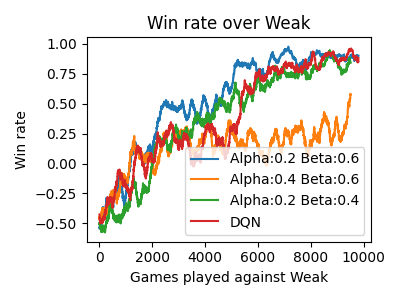
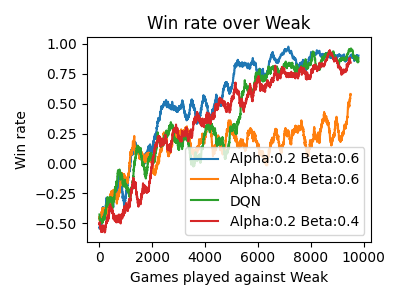
more plot updates

Changed region(s): [[0.24, 0.15, 0.9, 0.78], [0.57, 0.63, 0.9, 0.69], [0.57, 0.72, 0.9, 0.78]]

diff --git a/src/hockey-env/plots_for_report.py b/src/hockey-env/plots_for_report.py
@@ -105,7 +105,7 @@ plot_rewards([(Combined_n_4,"50 games"),(Combined_n_4_ten_games, "10 games")], e
 plot_rewards([(bigger_lr, "bigger_lr"),(bigger_nn, "bigger_nn"), (Combined_n_4, "Combined_n_4")], episodes = int(2000), name = "rewards_bigger_lr_nn")
 
 plot_winrate([(tournament_agent_path, "4 Steps"),(n_step_6_path, "6 Steps"), (classic_dqn, "DQN"),(n_step_1_path, "1 Step") ], opponent_name=  "Weak", games = 10000, opponent_idx = 1, name = "win_rate_n_steps")
-plot_winrate([(tournament_agent_path, "Alpha:0.2 Beta:0.6"),(prio_alpha_04,  "Alpha:0.4 Beta:0.6"),(prio_alpha_02_beta_04,  "Alpha:0.2 Beta:0.4"),  (classic_dqn, "DQN") ], games = 10000, opponent_name=  "Weak", opponent_idx = 1, name = "win_rate_alpha_beta")
+plot_winrate([(tournament_agent_path, "Alpha:0.2 Beta:0.6"),(prio_alpha_04,  "Alpha:0.4 Beta:0.6"), (classic_dqn, "DQN"),(prio_alpha_02_beta_04,  "Alpha:0.2 Beta:0.4") ], games = 10000, opponent_name=  "Weak", opponent_idx = 1, name = "win_rate_alpha_beta")
 plot_winrate([(tournament_agent_path, "PER + 4-Step"),(Combined_n_4, "Combined"), (classic_dqn, "DQN")], opponent_name=  "Weak", opponent_idx = 1, name = "win_rate_vs_weak", games = 12000)
 plot_winrate([(Combined_n_4,"50 games"),(Combined_n_4_ten_games, "10 games")], opponent_name=  "Weak", opponent_idx = 1, name = "win_rate_combined_vs_ten_games", games=8000)
 plot_winrate([(bigger_lr, "bigger_lr"),(bigger_nn, "bigger_nn"), (Combined_n_4, "Combined_n_4")], opponent_name=  "Weak", opponent_idx = 1, name = "win_rate_bigger_lr_nn")
